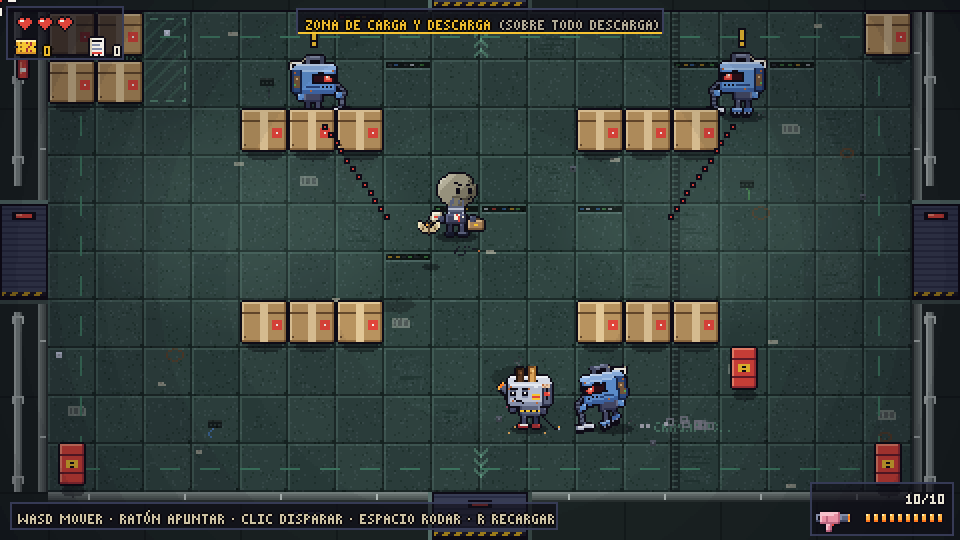
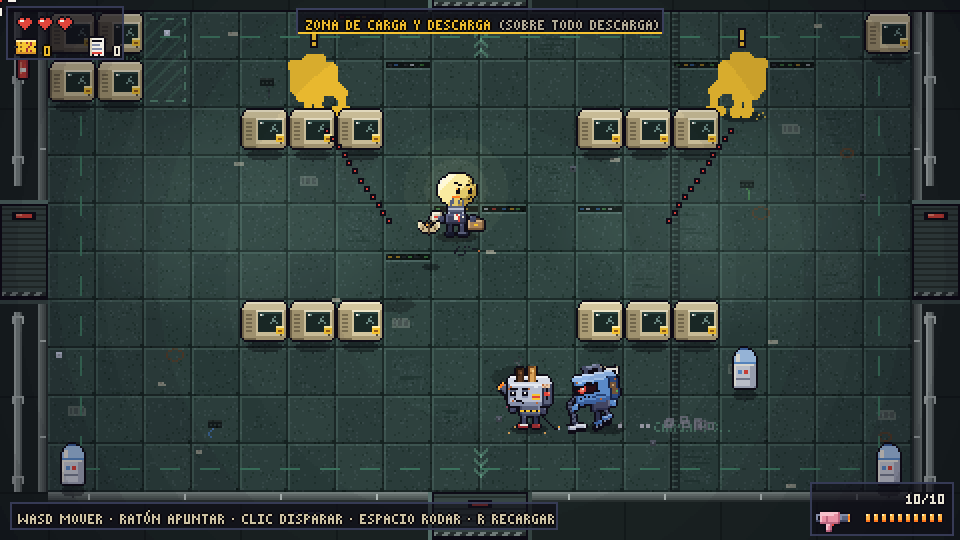
M8: entornos (2): monitores de tubo, fuentes de agua, sillas de oficina y persianas de la planta 2
Claude-Session: https://claude.ai/code/session_01LyCe1RLHef33brmEP91pnd

diff --git a/tools/sprites/props.ts b/tools/sprites/props.ts
@@ -1,7 +1,7 @@
 // Props, bullets, effects and HUD pieces. Props and bullets are ports of tools/referencia/build2.py.
 import { Canvas, hx, type RGBA } from '../../src/art/canvas.ts';
 import { BLUE, BROWN, BURNT, CARD, CREAM, DSTEEL, FRT, GLOVE, GLOW, GLOW2, GREEN, ICE, K, RED, RUSTR, STEEL, TOASTC, WHITE, YEL } from '../../src/art/lib.ts';
-import { box, cube, ellipse, hand, outline, ramp, type Ramp } from '../../src/art/lib.ts';
+import { box, cube, ellipse, hand, OFFICE, outline, ramp, type Ramp } from '../../src/art/lib.ts';
 
 export function makeCaja(): Canvas {
   const cv = new Canvas(24, 24);
@@ -40,6 +40,76 @@ export function makeCarrito(): Canvas {
   }
   cv.rect(8, 15, 1, 2, STEEL[3]!);
   cv.rect(21, 15, 1, 2, STEEL[3]!);
+  return outline(cv);
+}
+
+// Floor 2 (Informática) versions of the three obstacles: same footprint and collision box as the
+// warehouse's (src/data/props.ts), so the simulation does not change; only the look.
+
+const BEIGE = ramp('#efe6c8', '#d4c79f', '#a99b74', '#766b4e');
+
+/** «Caja» upstairs: a dead CRT monitor, beige, with a sticky note nobody read. */
+export function makeMonitorCrt(): Canvas {
+  const cv = new Canvas(24, 24);
+  cube(cv, 1, 3, 22, 19, 7, 4, BEIGE, BEIGE, BEIGE);
+  // The side is the darkest ramp (it faces away from the light).
+  cv.rect(1, 7, 7, 14, BEIGE[2]!);
+  cv.rect(1, 7, 1, 14, BEIGE[3]!);
+  for (let y = 9; y < 19; y += 2) cv.rect(3, y, 3, 1, BEIGE[3]!);
+  // Screen: dark glass, a glint top left, a crack.
+  cv.rect(9, 8, 12, 10, hx('#1a2a26'));
+  cv.rect(9, 8, 12, 1, hx('#2c4440'));
+  cv.set(10, 9, WHITE);
+  cv.set(11, 9, hx('#6f8f88'));
+  for (const [x, y] of [[17, 10], [16, 11], [16, 12], [15, 13], [17, 12], [18, 13]] as const) cv.set(x, y, hx('#6f8f88'));
+  // Power LED (off) and the sticky note.
+  cv.set(20, 19, hx('#4a4538'));
+  cv.rect(18, 15, 4, 4, YEL[1]!);
+  cv.rect(18, 15, 4, 1, YEL[0]!);
+  cv.rect(19, 17, 2, 1, YEL[3]!);
+  return outline(cv);
+}
+
+/** «Barril» upstairs: a water cooler with the bottle upside down (and almost empty). */
+export function makeWaterCooler(): Canvas {
+  const cv = new Canvas(16, 24);
+  // Bottle.
+  ellipse(cv, 8, 6, 5, 4, BLUE[0]!);
+  cv.rect(3, 6, 11, 4, BLUE[0]!);
+  cv.rect(4, 5, 2, 4, WHITE);
+  cv.rect(3, 9, 11, 1, BLUE[1]!);
+  cv.rect(6, 2, 4, 1, BLUE[2]!);
+  // Body.
+  box(cv, 3, 10, 11, 12, ramp('#f4f1e8', '#d3d8e4', '#aab1c4', '#7d8499'));
+  cv.rect(11, 11, 2, 10, hx('#aab1c4'));
+  // Two taps: cold and hot.
+  cv.rect(5, 13, 2, 2, BLUE[1]!);
+  cv.rect(8, 13, 2, 2, RED[1]!);
+  cv.rect(4, 17, 7, 1, hx('#7d8499'));
+  return outline(cv);
+}
+
+/** «Carrito» upstairs: an office chair on wheels, the backrest behind (it rolls; bullets go over it). */
+export function makeOfficeChair(): Canvas {
+  const cv = new Canvas(28, 24);
+  // Backrest (on the left: the chair faces right, like everything else).
+  box(cv, 5, 1, 7, 12, OFFICE);
+  cv.rect(6, 2, 1, 9, hx('#7a7f9a'));
+  // Seat.
+  box(cv, 7, 11, 16, 4, OFFICE);
+  cv.rect(8, 11, 14, 1, hx('#7a7f9a'));
+  // Armrest.
+  cv.rect(12, 8, 8, 1, OFFICE[1]!);
+  cv.rect(18, 9, 1, 2, OFFICE[1]!);
+  // Gas lift and the star base with wheels.
+  cv.rect(14, 15, 2, 4, STEEL[2]!);
+  cv.rect(14, 15, 1, 4, STEEL[1]!);
+  cv.rect(5, 19, 20, 1, OFFICE[1]!);
+  cv.rect(9, 18, 12, 1, OFFICE[1]!);
+  for (const x of [5, 15, 24]) {
+    ellipse(cv, x, 21, 1.6, 1.6, GLOVE[2]!);
+    cv.set(x, 21, GLOVE[0]!);
+  }
   return outline(cv);
 }
 
@@ -228,10 +298,10 @@ export function makeManiqui(): Canvas {
 }
 
 /** Roll-up shutter door with a red pilot light (build2.shutter), as a standalone sprite. */
-export function makeShutter(w: number, h: number, light: 'red' | 'green' = 'red'): Canvas {
+export function makeShutter(w: number, h: number, light: 'red' | 'green' = 'red', slat = '#3a4058', groove = '#2b3048'): Canvas {
   const cv = new Canvas(w, h);
-  cv.rect(0, 0, w, h, hx('#3a4058'));
-  for (let j = 2; j < h; j += 3) cv.rect(0, j, w, 1, hx('#2b3048'));
+  cv.rect(0, 0, w, h, hx(slat));
+  for (let j = 2; j < h; j += 3) cv.rect(0, j, w, 1, hx(groove));
   cv.rect(0, 0, w, 1, K);
   cv.rect(0, 0, 1, h, K);
   cv.rect(w - 1, 0, 1, h, K);
@@ -245,13 +315,16 @@ export function makeShutter(w: number, h: number, light: 'red' | 'green' = 'red'
  * The shutters of a room's doors, two frames each (pilot light red: shut; green: open). Bottom
  * edge: a black lip and a worn yellow-and-black kick strip, so it reads as the moving part.
  */
-export function makeShutterFrames(w: number, h: number): Canvas {
+export function makeShutterFrames(w: number, h: number, level = 1): Canvas {
   const out = new Canvas(w * 2, h);
+  // Upstairs (Informática) the shutter is green-grey and its kick strip a grey rubber with
+  // ribs, like the skirting duct; downstairs, blue steel with hazard stripes.
+  const [slat, groove, a, b] = level === 2 ? ['#3a4a47', '#28332f', '#7e8a87', '#2a3231'] : ['#3a4058', '#2b3048', '#b08a1c', '#191622'];
   (['red', 'green'] as const).forEach((light, i) => {
-    const f = makeShutter(w, h, light);
+    const f = makeShutter(w, h, light, slat, groove);
     for (let x = 1; x < w - 1; x++) {
-      f.set(x, h - 4, Math.floor(x / 3) % 2 === 0 ? hx('#b08a1c') : hx('#191622'));
-      f.set(x, h - 3, Math.floor((x + 1) / 3) % 2 === 0 ? hx('#b08a1c') : hx('#191622'));
+      f.set(x, h - 4, Math.floor(x / 3) % 2 === 0 ? hx(a) : hx(b));
+      f.set(x, h - 3, Math.floor((x + 1) / 3) % 2 === 0 ? hx(a) : hx(b));
     }
     f.rect(0, h - 2, w, 2, K);
     out.blit(f, i * w, 0);

diff --git a/src/render/GameScene.ts b/src/render/GameScene.ts
@@ -424,9 +424,10 @@ export class GameScene extends Phaser.Scene {
         this.till = this.add.image(pr.x, pr.y, key, 0).setOrigin(0.5, 1).setDepth(pr.y);
         continue;
       }
-      const tex = this.textures.get(key).getSourceImage();
+      const look = this.levelKey(key);
+      const tex = this.textures.get(look).getSourceImage();
       this.add.image(pr.x, pr.y + 1, shadowTexture(this, Math.max(6, Math.floor(tex.width / 2) - 3), 3)).setDepth(-50000);
-      this.add.image(pr.x, pr.y, key).setOrigin(0.5, 1).setDepth(pr.y);
+      this.add.image(pr.x, pr.y, look).setOrigin(0.5, 1).setDepth(pr.y);
     }
     if (room.kind === 'shop') {
       // A display stand under every shelf, and the till says hello.
@@ -1849,11 +1850,17 @@ export class GameScene extends Phaser.Scene {
     }
   }
 
+  /** The texture of this floor for a sprite that changes from floor to floor (`<key>-2` upstairs), or the plain one. */
+  private levelKey(key: string): string {
+    const own = `${key}-${this.world.level}`;
+    return this.world.level > 1 && this.textures.exists(own) ? own : key;
+  }
+
   private makeShutters(doors: ReadonlyArray<{ dir: string; x: number; y: number; w: number; h: number }>): void {
     this.shutters = [];
     const slam = this.world.doorsShut && this.world.room.kind === 'combat';
     for (const d of doors) {
-      const key = d.dir === 'N' ? 'persiana-n' : d.dir === 'S' ? 'persiana-s' : 'persiana-v';
+      const key = this.levelKey(d.dir === 'N' ? 'persiana-n' : d.dir === 'S' ? 'persiana-s' : 'persiana-v');
       const img = this.add.image(d.x, d.y, key, this.world.doorsShut ? 0 : 1).setOrigin(0, 0).setDepth(-99000);
       const sh = { img, h: d.h };
       this.shutters.push(sh);

diff --git a/tools/sprites/build.ts b/tools/sprites/build.ts
@@ -57,6 +57,10 @@ export function allSheets(): Record<string, { canvas: Canvas; frameW: number; fr
     caja: one(P.makeCaja()),
     barril: one(P.makeBarril()),
     carrito: one(P.makeCarrito()),
+    // Floor 2 (Informática): the same obstacles and shutters with the floor's look (`<id>-2`).
+    'caja-2': one(P.makeMonitorCrt()),
+    'barril-2': one(P.makeWaterCooler()),
+    'carrito-2': one(P.makeOfficeChair()),
     'bala-jugador': one(P.makeShot()),
     'bala-roja': one(P.enemyBulletRed()),
     'bala-cian': one(P.enemyBulletCyan()),
@@ -81,6 +85,9 @@ export function allSheets(): Record<string, { canvas: Canvas; frameW: number; fr
     'persiana-n': { canvas: P.makeShutterFrames(48, 33), frameW: 48, frameH: 33 },
     'persiana-s': { canvas: P.makeShutterFrames(48, 24), frameW: 48, frameH: 24 },
     'persiana-v': { canvas: P.makeShutterFrames(24, 48), frameW: 24, frameH: 48 },
+    'persiana-n-2': { canvas: P.makeShutterFrames(48, 33, 2), frameW: 48, frameH: 33 },
+    'persiana-s-2': { canvas: P.makeShutterFrames(48, 24, 2), frameW: 48, frameH: 24 },
+    'persiana-v-2': { canvas: P.makeShutterFrames(24, 48, 2), frameW: 24, frameH: 48 },
     montacargas: { canvas: P.makeGoodsLift(), frameW: 44, frameH: 34 },
     'corazon-suelo': { canvas: P.makeSpareHeart(), frameW: 13, frameH: 12 },
     cofre: { canvas: P.makeChest(), frameW: 26, frameH: 24 },

diff --git a/tests/sprites.test.ts b/tests/sprites.test.ts
@@ -57,3 +57,17 @@ test('cada hoja de sprites se divide en fotogramas enteros', async () => {
     assert.equal(s.canvas.h, s.frameH, `${key}: alto ${s.canvas.h} ≠ ${s.frameH}`);
   }
 });
+
+test('las versiones de la planta 2 (<id>-2) miden lo mismo que las del almacén, fotograma a fotograma', async () => {
+  const { allSheets } = await import('../tools/sprites/build.ts');
+  const sheets = allSheets();
+  const upstairs = Object.keys(sheets).filter((k) => k.endsWith('-2'));
+  for (const want of ['caja-2', 'barril-2', 'carrito-2', 'persiana-n-2', 'persiana-s-2', 'persiana-v-2']) assert.ok(upstairs.includes(want), `falta ${want}`);
+  for (const k of upstairs) {
+    const base = sheets[k.slice(0, -2)];
+    assert.ok(base, `${k} sin su versión del almacén`);
+    const s = sheets[k]!;
+    // Same footprint: the collision boxes in src/data/props.ts are shared by both floors.
+    assert.deepEqual([s.canvas.w, s.canvas.h, s.frameW, s.frameH], [base.canvas.w, base.canvas.h, base.frameW, base.frameH], k);
+  }
+});

diff --git a/tools/e2e.ts b/tools/e2e.ts
@@ -186,8 +186,9 @@ try {
     // The loot roll can give nothing only for enemies whose range starts at 0: the microwave always drops some.
     throw new Error('El microondas no ha soltado cupones');
   }
-  await page.evaluate(`(() => { const w = window.__GE__.scene.world; for (const k of w.pickups) { k.x = w.player.x + 20; k.y = w.player.y; } })()`);
-  await page.waitForTimeout(600);
+  // Put them next to the toaster, still (they may be sliding from the drop) and ready to be picked up.
+  await page.evaluate(`(() => { const w = window.__GE__.scene.world; for (const k of w.pickups) { k.x = w.player.x + 12; k.y = w.player.y; k.vx = 0; k.vy = 0; k.age = Math.max(k.age, 1); } })()`);
+  await page.waitForFunction('window.__GE__.state().coupons > 0', undefined, { timeout: 2500 }).catch(() => undefined);
   if ((await state()).coupons === 0) throw new Error('La tostadora no ha recogido los cupones');
 
   // Free play for the rest of the time: strafe around shooting at both dummies.

diff --git a/docs/BITACORA.md b/docs/BITACORA.md
@@ -2,9 +2,17 @@
 
 La entrada más reciente va arriba. Cada sesión añade una.
 
+## 2026-10-29 19:06 — Hito M8 — Entornos (2): obstáculos y persianas de Informática
+
+- Hecho: en la planta 2 los obstáculos tienen su versión: la **caja** es un monitor de tubo beis con la pantalla rajada y un pósit, el **bidón** es una fuente de agua con la garrafa casi vacía y el **carrito** es una silla de oficina con ruedas (sprites `caja-2`, `barril-2` y `carrito-2` en `tools/sprites/props.ts`). Las **persianas** de la planta 2 son gris verdoso, con la tira de goma del rodapié en lugar de la cinta amarilla y negra (`makeShutterFrames(w, h, 2)`). `GameScene.levelKey` elige la textura `<id>-<planta>` si existe. Test nuevo en `tests/sprites.test.ts`: cada versión de planta existe y mide lo mismo que la del almacén. Ningún sprite aprobado cambia.
+- Decisiones: misma huella y misma caja de choque que los del almacén, así que la simulación no se entera (el bot da lo mismo) y no hace falta tocar `src/data/props.ts`: una versión de planta es solo dibujo. La caja fuerte, la caja de autocobro y el montacargas no cambian: son de la cadena de tiendas, salen en todas las plantas. Arreglo de paso en el e2e: «La tostadora no ha recogido los cupones» falló una vez (y la segunda pasó): los cupones movidos junto a la tostadora seguían deslizándose de la caída; ahora se dejan quietos a 12 px y se espera hasta 2,5 s a que los recoja en vez de 0,6 fijos.
+- Medidas: sin cambios de simulación (bot: 200 partidas sin fallos, igual que antes). 342 tests en verde. Captura 33a revisada: las trincheras de monitores se leen como cobertura y la sala ya no parece el almacén pintado de verde.
+- Problemas conocidos: la planta 2 aún usa las plantillas del almacén y no se llega jugando.
+- Siguiente paso: M8, entornos (3): plantillas propias de la planta 2.
+
 ## 2026-10-29 19:05 — Hito M8 — Entornos (1): variantes de las plantillas
 
-- Hecho: **las plantillas tienen variantes de forma**, no solo de relleno. (1) **Grupos de estanterías**: una cifra `1`–`9` en la plantilla marca un grupo de casillas que, con la semilla, es estantería o suelo (cada cifra por su cuenta, 50 %); sin rellenar, el grupo está en pie. Puestos en 10 salas de combate de la planta 1 (una columna central en el Pasillo de Devoluciones, el stand de la Oferta Relámpago, postes entre las trincheras de Carga y Descarga, el patio del Expositor cerrado por arriba y abajo, una estantería central en el Almacén Pequeño, la tapa del anillo de la Cámara de Garantías, los tabiques de Obsolescencia cerrados por el medio, el bloque central y los muros largos de Saldos, los nichos del Pasillo 7B). (2) **Salas reflejadas**: en una planta generada (`vary` en `fillTemplate`), cada sala de combate sale reflejada de izquierda a derecha la mitad de las veces; las puertas siguen en su sitio porque todas las plantillas tienen un número par de columnas. (3) **Idea de combate** de cada una de las 14 salas de combate, escrita en la plantilla (`idea`). `fillTemplate` sortea los grupos y el reflejo **después** de los huecos, así que una sala sin grupos se rellena igual que antes. Tests nuevos (3 y uno ampliado): toda sala de combate tiene su idea; cada grupo sale y no sale según la semilla; la mitad de las salas generadas salen reflejadas y la de la jefa nunca; una sala reflejada tiene las puertas en pared y despejadas; y la prueba de rendijas mira también todas las salas sin grupos.
+- Hecho: **las plantillas tienen variantes de forma**, no solo de relleno. (1) **Grupos de estanterías**: una cifra `1`–`9` en la plantilla marca un grupo de casillas que, con la semilla, es estantería o suelo (cada cifra por su cuenta, 50 %); sin rellenar, el grupo está en pie. Puestos en 9 salas de combate (10 grupos) de la planta 1 (una columna central en el Pasillo de Devoluciones, el stand de la Oferta Relámpago, postes entre las trincheras de Carga y Descarga, el patio del Expositor cerrado por arriba y abajo, una estantería central en el Almacén Pequeño, la tapa del anillo de la Cámara de Garantías, los tabiques de Obsolescencia cerrados por el medio, el bloque central y los muros largos de Saldos, los nichos del Pasillo 7B). (2) **Salas reflejadas**: en una planta generada (`vary` en `fillTemplate`), cada sala de combate sale reflejada de izquierda a derecha la mitad de las veces; las puertas siguen en su sitio porque todas las plantillas tienen un número par de columnas. (3) **Idea de combate** de cada una de las 14 salas de combate, escrita en la plantilla (`idea`). `fillTemplate` sortea los grupos y el reflejo **después** de los huecos, así que una sala sin grupos se rellena igual que antes. Tests nuevos (3 y uno ampliado): toda sala de combate tiene su idea; cada grupo sale y no sale según la semilla; la mitad de las salas generadas salen reflejadas y la de la jefa nunca; una sala reflejada tiene las puertas en pared y despejadas; y la prueba de rendijas mira también todas las salas sin grupos.
 - Decisiones: grupos de estantería o suelo, no de cajas: una estantería no deja rendijas nuevas y la conectividad se comprueba con el caso peor (todos en pie), que ya es el que miran los tests de siempre. Solo se reflejan las de combate: la entrada, la tienda, el tesoro y la sala de la jefa tienen su orden pensado (el montacargas, la caja). Las salas pedidas por id (`?sala=`, los tests y el e2e) no se reflejan, para que las capturas no cambien de lado. Los grupos se sortean también ahí.
 - Medidas (bot, 300 plantas, mismas semillas, antes → después): gana el 52,3 % → 50,0 % (dentro de la banda 35–55 %), 0,76 → 0,78 heridas y 18,0 → 18,4 s por sala de combate. No toco la dificultad. 341 tests en verde. Captura 14a revisada: los postes de Carga y Descarga hacen dos bolsillos de cobertura entre las trincheras.
 - Problemas conocidos: los de la entrada anterior (obstáculos y persianas del almacén en la planta 2).

diff --git a/docs/ESTILO_ARTE.md b/docs/ESTILO_ARTE.md
@@ -115,5 +115,9 @@ Color dominante: **verde pantalla** (suelo `#304541` / `#2c403d`, juntas `#1c2a2
 - Salas: entrada con felpudo «CONECTANDO» y cartel «PLANTA 2 · INFORMÁTICA»; tienda con alfombra
   azul; tesoro «COPIAS DE SEGURIDAD»; secreta «PAPELERA DE RECICLAJE»; jefe «SALA DE SERVIDORES»
   con interferencias (nieve verde y píxeles muertos) en lugar de escarcha.
-- Pendiente para «Entornos» (M8): obstáculos propios (las cajas, barriles y carritos siguen siendo
-  los del almacén) y persianas a juego.
+- Obstáculos: arriba, la caja es un **monitor de tubo** beis con un pósit, el bidón es una **fuente
+  de agua** con la garrafa casi vacía y el carrito es una **silla de oficina** con ruedas (las
+  balas pasan por encima, como con el carrito). Miden y chocan igual que los del almacén (sprites
+  `caja-2`, `barril-2`, `carrito-2`). Las persianas, gris verdoso con la tira de goma del rodapié
+  en vez de la cinta amarilla y negra (`persiana-*-2`). Regla: una versión de planta de un sprite
+  se llama `<id>-<planta>` y mide lo mismo que el original.

diff --git a/docs/HOJA_DE_RUTA.md b/docs/HOJA_DE_RUTA.md
@@ -183,7 +183,7 @@ semillas distintas acaban con builds distintas.
   - [x] (1) Variantes: grupos de estanterías (`1`–`9` en la plantilla) que salen o no con la
     semilla, salas de combate reflejadas en las plantas generadas, y la idea de combate de cada
     sala de la planta 1 escrita en su plantilla (`idea`).
-  - [ ] (2) Obstáculos y decorado propios de Informática (lo que sale en los huecos `o` y las cajas
+  - [x] (2) Obstáculos y decorado propios de Informática (lo que sale en los huecos `o` y las cajas
     de la planta 2) y persianas a juego.
   - [ ] (3) Plantillas propias de la planta 2 (al menos 12 de combate y las especiales), cada una
     con su idea y sus grupos.
